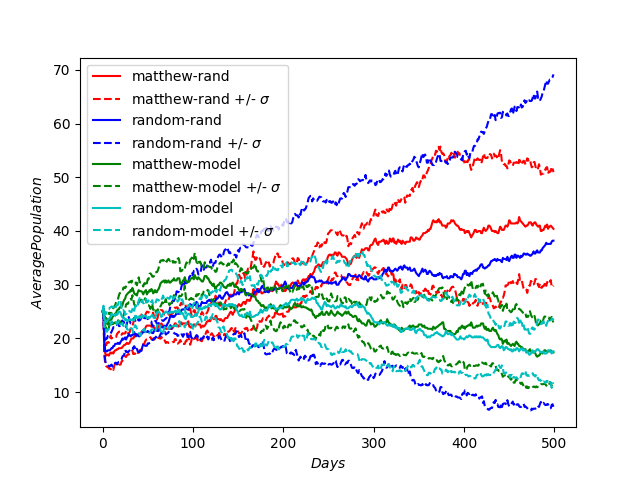
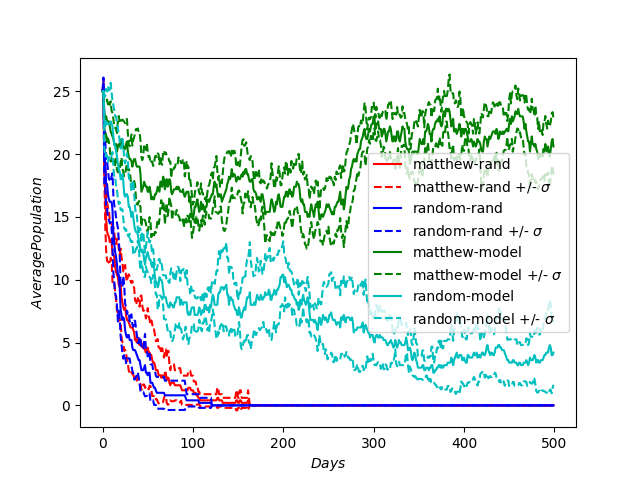
week 10, timing strategy properly

diff --git a/src/attachment_strategies.py b/src/attachment_strategies.py
@@ -100,10 +100,13 @@ def manage_channels(g, env):
 	close = []
 
 	for e in g.edges:
+		if g.nodes[e[0]]["timing_strategy"] == "sanity_check":
+			continue
+
 		if g.get_edge_data(e[0], e[1])["satoshis"] == 0:
 			close.append((e[0], e[1]))
 		else:
-			if sum(g.get_edge_data(e[0], e[1])["last_10_fees"]) / g.get_edge_data(e[0], e[1])["satoshis"] < 1500:
+			if sum(g.get_edge_data(e[0], e[1])["last_10_fees"]) / g.get_edge_data(e[0], e[1])["satoshis"] < 0.5:
 				close.append((e[0], e[1]))
 
 	for f, s in close:

diff --git a/src/simulation.py b/src/simulation.py
@@ -31,6 +31,7 @@ def create_node(settings, buf):
 		# Simulation attributes
 		'attachment_strategy': settings['attachment_strategy'],
 		'price_strategy': settings['price_strategy'],
+		'timing_strategy': settings['timing_strategy'],
 		'price_model': settings['price_model'],
 
 		'profits': [buf / 10 for n in range(10)],

diff --git a/docs/logs/week10.md b/docs/logs/week10.md
@@ -1,0 +1,26 @@
+# Done
+
+* Converted fields to a probability model, abstracted to use in simulation.
+* Play price model against random with large success.
+* Abstracted the simulation so only the meta-fields need change. 
+* Implemented timing category and a couple strategies.
+* Balance section in discussion done, or close to.
+* Mirror appendix structure figured out.
+* Started strategy appendix.
+
+# Problem
+
+It really starts to take shape. Timing, funding, allocation strategies are all simple in relation.
+Might finish all implementations next week to give time to avg shortest path, robustness analysis etc
+the week after. 
+ 
+Report is in good shape. 
+
+Need a strong implementation these next couple of weeks so result section may start 2/3 into the thesis.
+ 
+# Do
+
+* Implement timing aggressiveness. 
+* Implement funding strategy.
+* Implement allocation strategy.
+* Start look at real implementation, move to use strategies testnet/mainnet.
